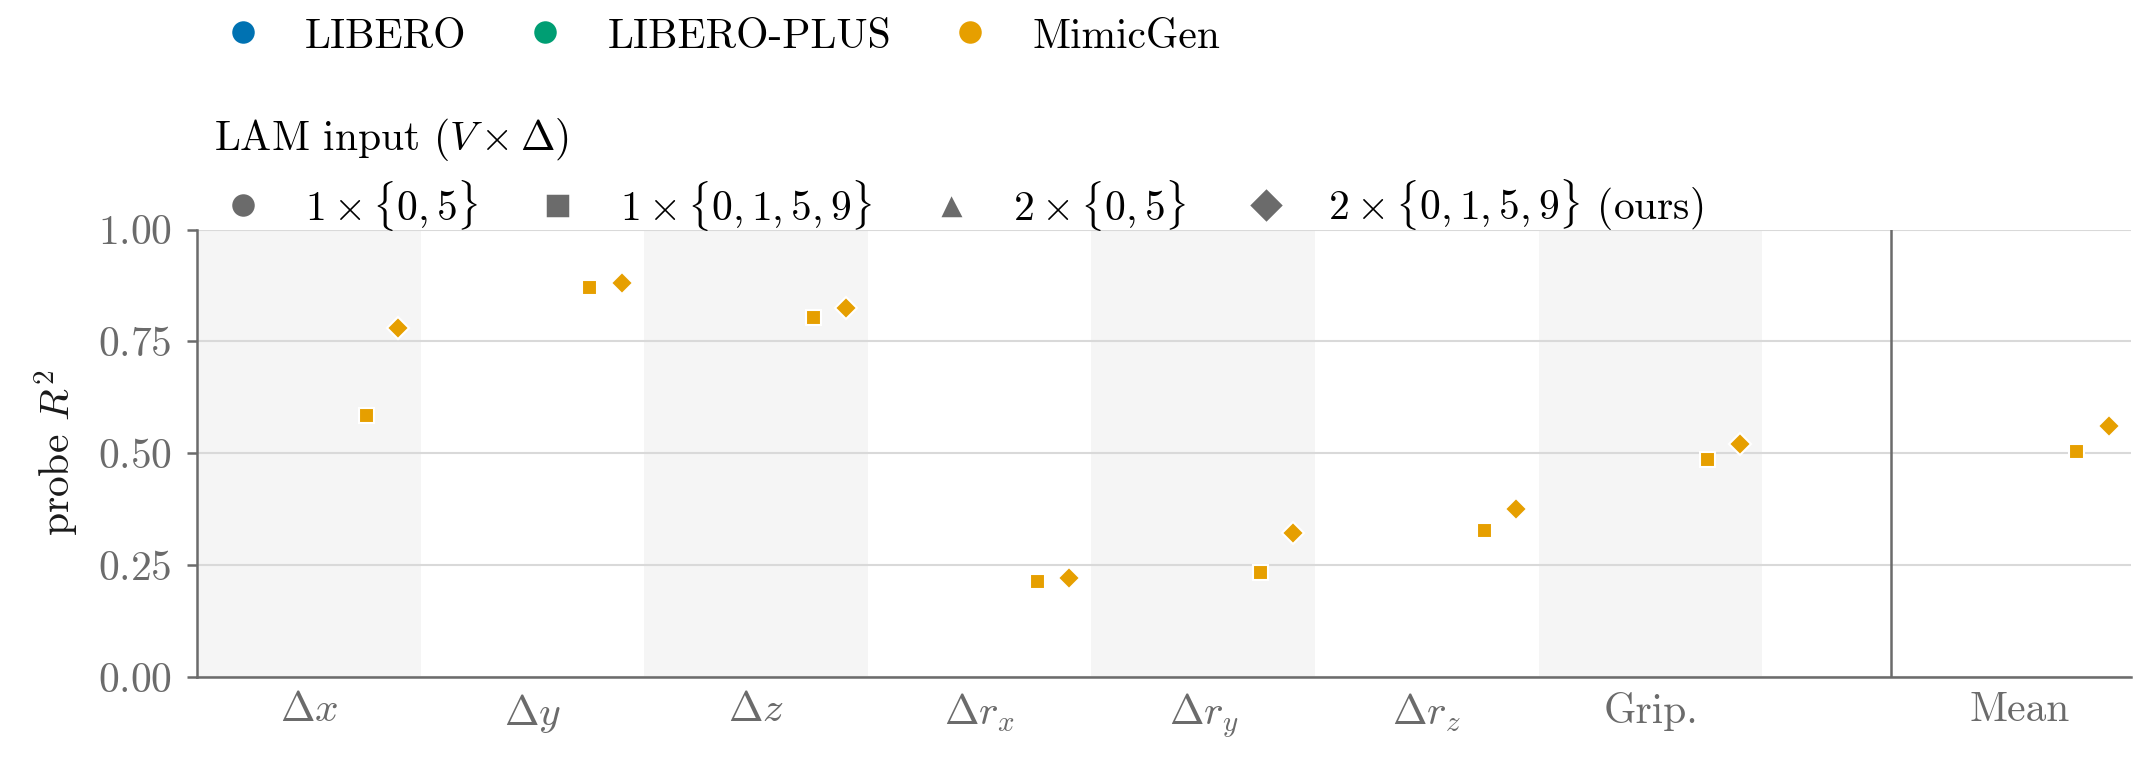
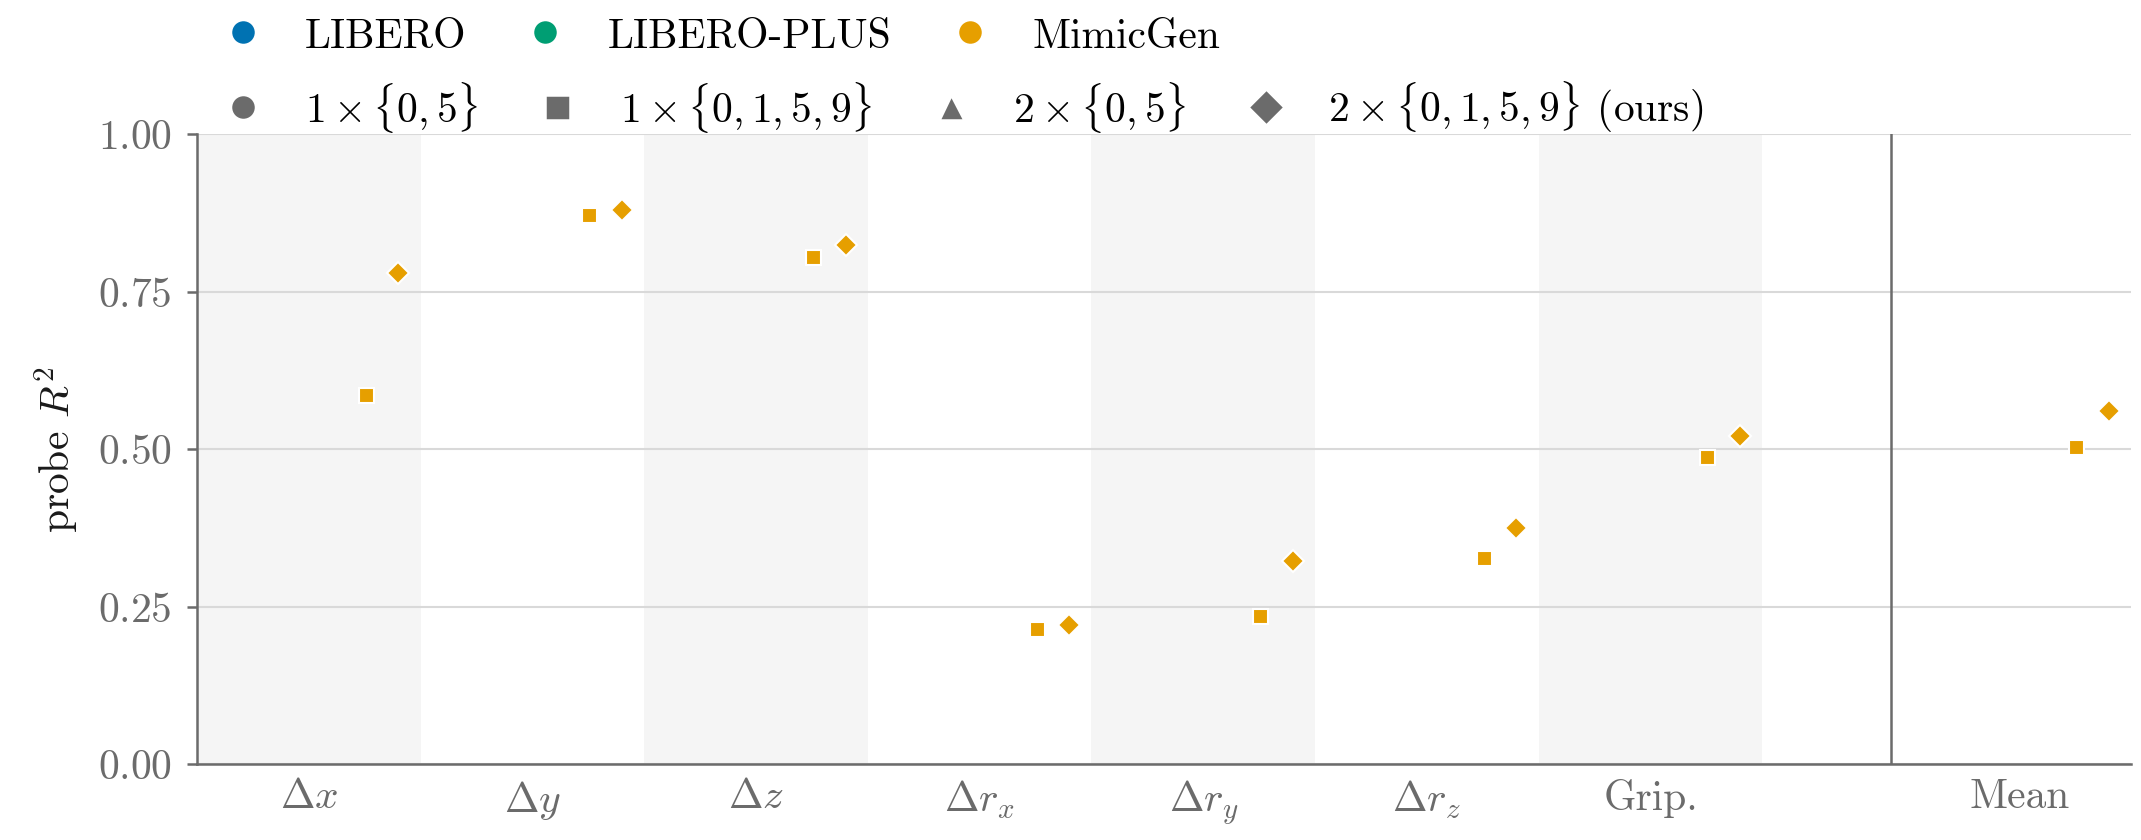
probing: taller plot area, aligned legend rows
Plot area goes 1.55in -> 2.10in. The flat 4.6:1 aspect was left over
from when figure text was 2x and needed the vertical room; at 10pt the
legend costs less, and the height is better spent showing the
y-differences the figure exists to show. delta_r_x at .216 vs .221 was
invisible before.

Dropped both legend titles. A title on one legend and not the other
left a ragged edge -- the untitled row starts with a marker at the
margin, the titled row starts with text and indents its markers past
it. Titling both would cost two more rows. The caption already says
color is the suite and shape is the LAM input, so the titles repeated
it.

Re-verified after the change: page is 514.072pt wide (= \textwidth
exactly), and the PDF contains two text sizes, 9.963 and 6.974 PS pt
= 10.000 and 7.000 TeX pt. The 7pt runs are the R^2 superscript and
the three r_x/r_y/r_z subscripts, which LaTeX shrinks the same way.
Density re-checked against a fully-populated synthetic set.

diff --git a/plot_probing.py b/plot_probing.py
@@ -190,15 +190,14 @@ def build_legends(fig, suite_labels, methods, left):
         for i, m in enumerate(methods)
     ]
 
-    # No title on the suite legend -- the benchmark names say what they are,
-    # and at this text size a title row costs real vertical space. The marker
-    # legend keeps its title because "1x{0,5}" does not explain itself.
-    fig.legend(handles=suite_handles, loc="upper left", bbox_to_anchor=(left, 1.0),
-               ncol=len(suite_handles), frameon=False, borderaxespad=0)
-    fig.legend(handles=method_handles, title=r"LAM input ($V\times\Delta$)",
-               loc="upper left", bbox_to_anchor=(left, 0.87),
-               ncol=len(method_handles), frameon=False, alignment="left",
-               borderaxespad=0)
+    # Neither legend carries a title. A title on one and not the other left a
+    # ragged edge -- the untitled row starts with a marker at the margin while
+    # the titled row starts with text and indents its markers past it. Titling
+    # both costs two more rows of height. The caption already states that color
+    # is the suite and shape is the LAM input, so the titles were repeating it.
+    for handles, y in ((suite_handles, 1.0), (method_handles, 0.925)):
+        fig.legend(handles=handles, loc="upper left", bbox_to_anchor=(left, y),
+                   ncol=len(handles), frameon=False, borderaxespad=0)
 
 
 def main():
@@ -258,8 +257,8 @@ def main():
     # placed by hand (see build_legends), so the space they need has to be
     # reserved by hand too. Fractions are of the figure, tuned so the axes ends
     # up ~1.55in tall regardless of the legend rows above it.
-    left, bottom, top = 0.092, 0.115, 0.700
-    fig, ax = plt.subplots(figsize=(style.TEXT_WIDTH, 2.55))
+    left, bottom, top = 0.092, 0.090, 0.840
+    fig, ax = plt.subplots(figsize=(style.TEXT_WIDTH, 2.80))
     fig.subplots_adjust(left=left, right=0.995, bottom=bottom, top=top)
 
     # Alternating group bands. With twelve marks per group the eye needs the
